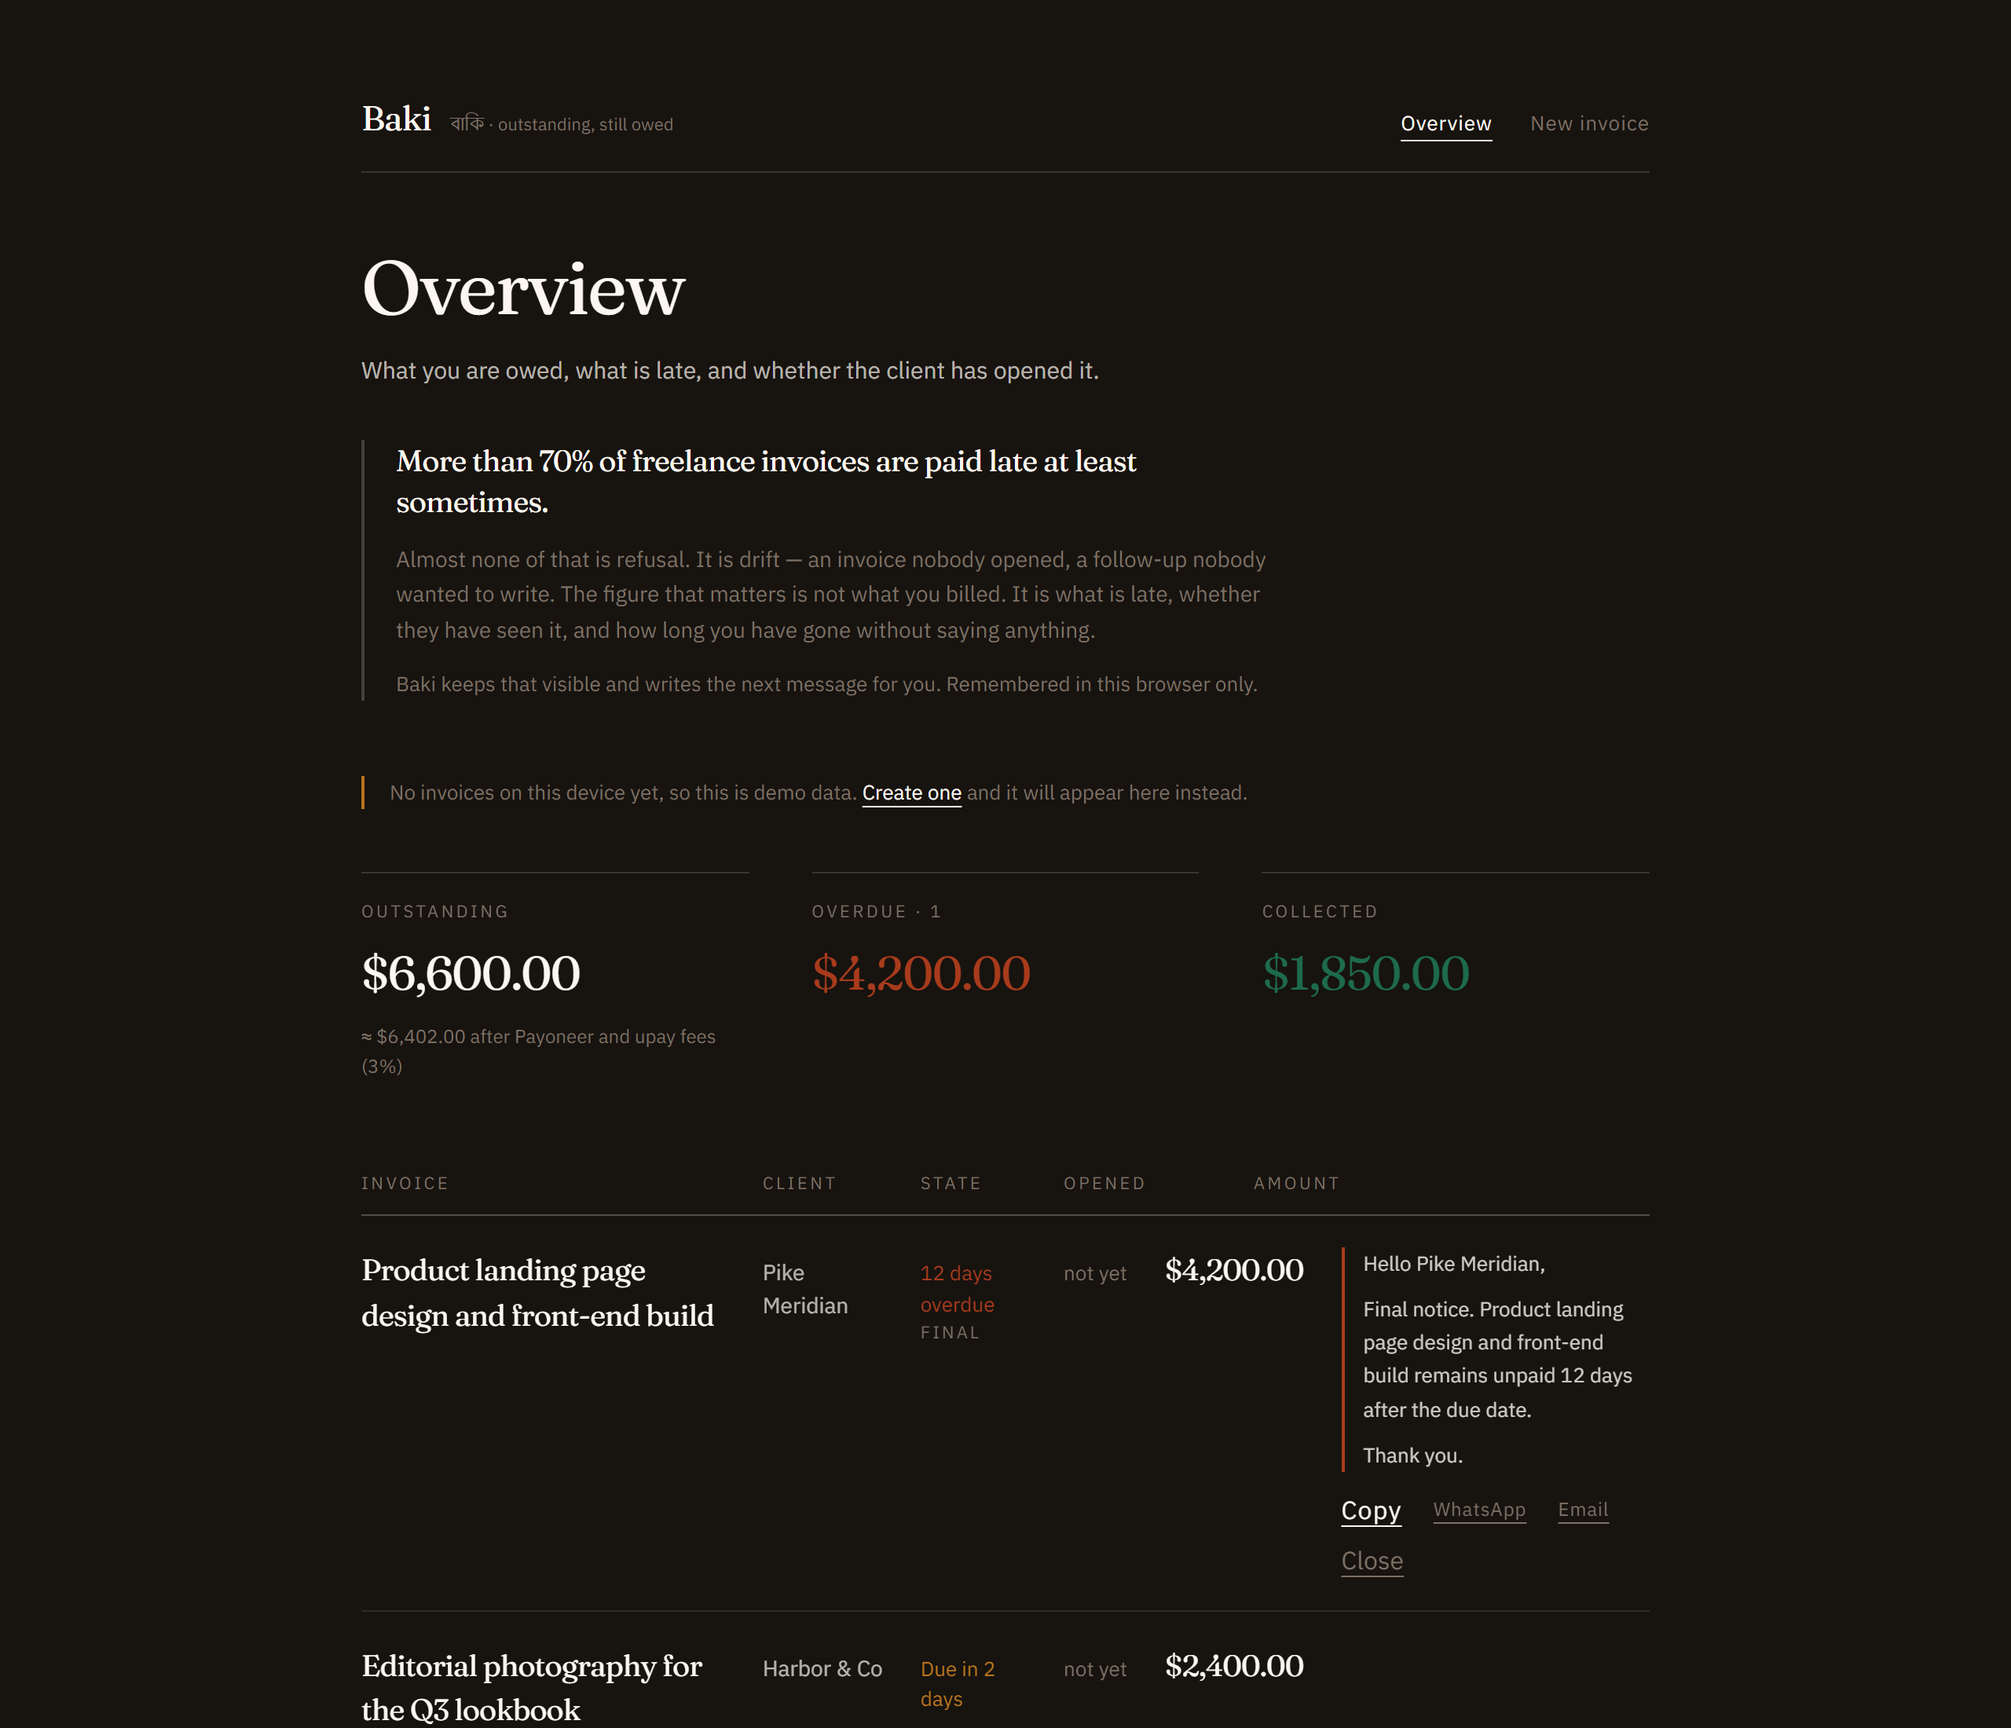
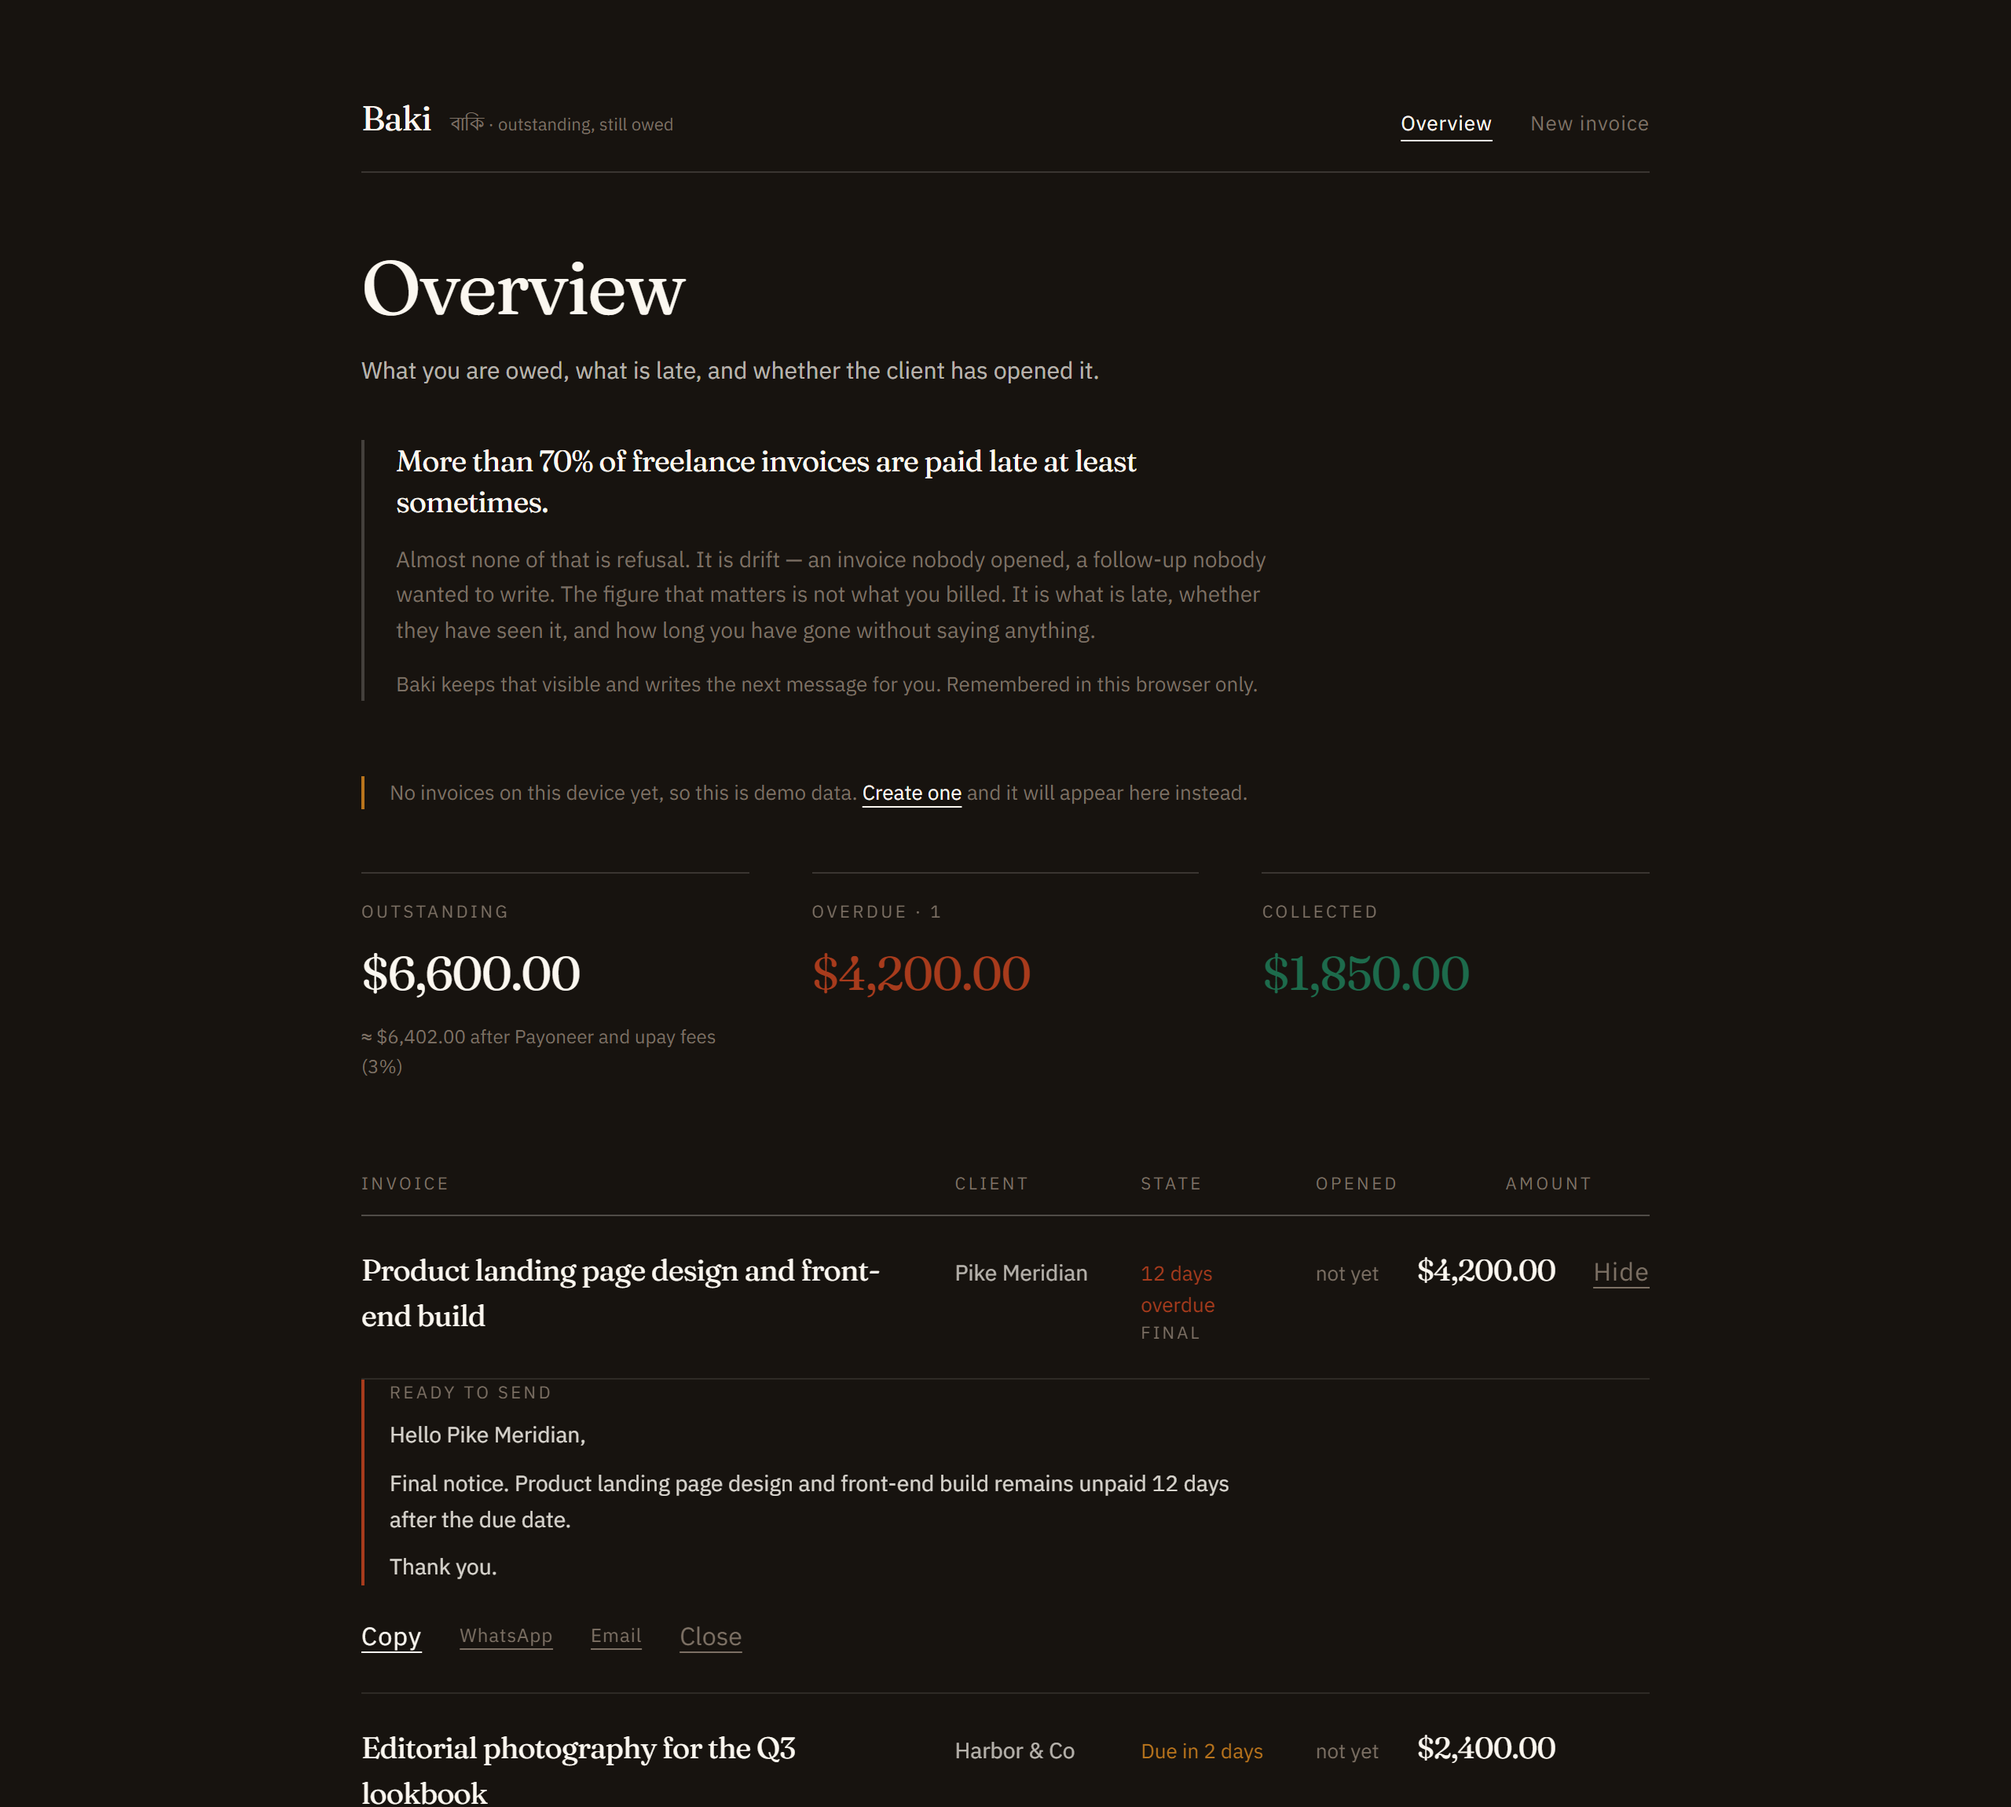
Client can commit to a payment date; ladder pauses, then resumes harder

diff --git a/components/PromiseDate.tsx b/components/PromiseDate.tsx
@@ -1,0 +1,60 @@
+"use client";
+
+import { useState } from "react";
+import { promiseDate } from "@/app/actions";
+import { toDateInput } from "@/lib/format";
+
+function defaultPromise(): string {
+  const d = new Date();
+  d.setUTCDate(d.getUTCDate() + 7);
+  return toDateInput(d);
+}
+
+/**
+ * The client's side of the negotiation. Committing to a date pauses the ladder
+ * until that date — which is worth more to them than ignoring it.
+ */
+export function PromiseDate({ id }: { id: string }) {
+  const [open, setOpen] = useState(false);
+
+  if (!open) {
+    return (
+      <button
+        type="button"
+        onClick={() => setOpen(true)}
+        className="text-[13px] text-muted underline underline-offset-4 hover:text-ink"
+      >
+        I will pay by a date
+      </button>
+    );
+  }
+
+  return (
+    <form action={promiseDate} className="enter">
+      <input type="hidden" name="id" value={id} />
+      <p className="text-[11px] tracking-[0.16em] text-muted uppercase">Commit to a date</p>
+      <p className="mt-2 max-w-sm text-[13px] leading-relaxed text-muted">
+        Reminders stop until then. If the date passes without payment, they resume more
+        firmly.
+      </p>
+      <div className="mt-3 flex flex-wrap items-center gap-3">
+        <input
+          type="date"
+          name="promised_at"
+          defaultValue={defaultPromise()}
+          className="border border-rule px-3 py-2 text-[14px] text-ink"
+        />
+        <button type="submit" className="bg-ink px-5 py-2 text-[12px] tracking-[0.1em] text-surface uppercase">
+          Confirm
+        </button>
+        <button
+          type="button"
+          onClick={() => setOpen(false)}
+          className="text-[12px] text-muted underline underline-offset-4"
+        >
+          Cancel
+        </button>
+      </div>
+    </form>
+  );
+}

diff --git a/lib/escalation.ts b/lib/escalation.ts
@@ -84,3 +84,44 @@ export function getEscalation(tone: Tone, dueAt: Date, now = new Date()): Escala
     stages: buildStages(tone, dueAt),
   };
 }
+
+export type PromiseState =
+  | { kind: "none" }
+  | { kind: "promised"; at: Date; daysAway: number }
+  | { kind: "broken"; at: Date; daysLate: number };
+
+/**
+ * A client who commits to a date buys silence until that date. Miss it and the
+ * ladder does not resume where it paused — it resumes one register colder,
+ * because a broken promise is worse than an unanswered invoice.
+ */
+export function promiseState(promisedAt: Date | null | undefined, now = new Date()): PromiseState {
+  if (!promisedAt) return { kind: "none" };
+  const days = calendarDaysPastDue(promisedAt, now);
+  if (days <= 0) return { kind: "promised", at: promisedAt, daysAway: Math.abs(days) };
+  return { kind: "broken", at: promisedAt, daysLate: days };
+}
+
+/** Escalation adjusted for a promise: paused while it holds, harsher once broken. */
+export function getEscalationWithPromise(
+  tone: Tone,
+  dueAt: Date,
+  promisedAt: Date | null | undefined,
+  now = new Date(),
+): { escalation: Escalation; promise: PromiseState; paused: boolean } {
+  const promise = promiseState(promisedAt, now);
+  const escalation = getEscalation(tone, dueAt, now);
+
+  if (promise.kind === "promised") {
+    return { escalation: { ...escalation, register: null, stageIndex: null }, promise, paused: true };
+  }
+
+  if (promise.kind === "broken") {
+    const order: Register[] = ["cordial", "firm", "cold", "final"];
+    const at = escalation.register ? order.indexOf(escalation.register) : 1;
+    const harder = order[Math.min(order.length - 1, Math.max(at + 1, 2))];
+    return { escalation: { ...escalation, register: harder }, promise, paused: false };
+  }
+
+  return { escalation, promise, paused: false };
+}

diff --git a/app/api/status/route.ts b/app/api/status/route.ts
@@ -1,6 +1,6 @@
 import { NextResponse } from "next/server";
 import { getInvoiceSummaries } from "@/lib/invoices";
-import { calendarDaysPastDue, getEscalation } from "@/lib/escalation";
+import { calendarDaysPastDue, getEscalationWithPromise } from "@/lib/escalation";
 import { isTone } from "@/lib/types";
 import { templateCopy } from "@/lib/copy";
 
@@ -23,7 +23,9 @@ export async function POST(request: Request) {
       const dueAt = new Date(row.due_at as string);
       const paid = row.status === "paid";
       const daysPastDue = paid ? 0 : calendarDaysPastDue(dueAt, now);
-      const escalation = paid ? null : getEscalation(tone, dueAt, now);
+      const promisedAt = row.promised_at ? new Date(row.promised_at as string) : null;
+      const resolved = paid ? null : getEscalationWithPromise(tone, dueAt, promisedAt, now);
+      const escalation = resolved?.escalation ?? null;
       return {
         id: row.id,
         client_name: row.client_name,
@@ -38,6 +40,9 @@ export async function POST(request: Request) {
           : null,
         days_past_due: daysPastDue,
         register: escalation?.register ?? null,
+        promised_at: promisedAt ? promisedAt.toISOString() : null,
+        promise_state: resolved?.promise.kind ?? "none",
+        paused: resolved?.paused ?? false,
         // The exact wording for the stage this invoice has reached, so the
         // freelancer can send it from wherever they already talk to the client.
         message:

diff --git a/components/InvoiceDocument.tsx b/components/InvoiceDocument.tsx
@@ -1,6 +1,7 @@
 import Link from "next/link";
 import { CopyLink } from "@/components/CopyLink";
 import { LadderPreview } from "@/components/LadderPreview";
+import { PromiseDate } from "@/components/PromiseDate";
 import { OverdueClock } from "@/components/OverdueClock";
 import { reminderCopy } from "@/lib/copy";
 import { getEscalation, REGISTER_LABELS } from "@/lib/escalation";
@@ -134,6 +135,20 @@ export async function InvoiceDocument({ invoice, shareUrl }: Props) {
           </a>
         )}
       </div>
+
+      {!paid ? (
+        <div className="mt-6 border-t border-rule pt-6">
+          {invoice.promised_at ? (
+            <p className="text-[13px] leading-relaxed text-muted">
+              Payment promised for{" "}
+              <span className="text-ink">{formatDate(new Date(invoice.promised_at))}</span>.
+              Reminders are paused until then.
+            </p>
+          ) : (
+            <PromiseDate id={invoice.id} />
+          )}
+        </div>
+      ) : null}
 
       <div className="mt-12">
         <LadderPreview

diff --git a/app/actions.ts b/app/actions.ts
@@ -3,7 +3,7 @@
 import { redirect } from "next/navigation";
 import { dollarsToCents, parseDateInput } from "@/lib/format";
 import { makeInvoiceId } from "@/lib/ids";
-import { createInvoiceRecord, markInvoicePaid } from "@/lib/invoices";
+import { createInvoiceRecord, markInvoicePaid, promisePayment } from "@/lib/invoices";
 import { isTone } from "@/lib/types";
 
 function asString(value: FormDataEntryValue | null): string {
@@ -52,5 +52,13 @@ export async function confirmPayment(formData: FormData) {
   const id = asString(formData.get("id"));
   if (!id) redirect("/");
   await markInvoicePaid(id);
+  redirect(`/invoice/${id}`);
+}
+
+export async function promiseDate(formData: FormData) {
+  const id = asString(formData.get("id"));
+  const when = parseDateInput(asString(formData.get("promised_at")));
+  if (!id || !when) redirect(id ? `/invoice/${id}` : "/");
+  await promisePayment(id, when);
   redirect(`/invoice/${id}`);
 }

diff --git a/components/Dashboard.tsx b/components/Dashboard.tsx
@@ -22,10 +22,22 @@ type Row = {
   register: string | null;
   due_at: string;
   message: string | null;
+  promise_state?: "none" | "promised" | "broken";
+  promised_at?: string | null;
 };
 
 function state(row: Row): { text: string; tone: string } {
   if (row.status === "paid") return { text: "Paid", tone: "text-paid" };
+  if (row.promise_state === "promised" && row.promised_at) {
+    const when = new Date(row.promised_at).toLocaleDateString("en-GB", {
+      day: "numeric",
+      month: "short",
+    });
+    return { text: `Promised ${when}`, tone: "text-due" };
+  }
+  if (row.promise_state === "broken") {
+    return { text: "Promise broken", tone: "text-overdue" };
+  }
   if (row.days_past_due > 0) {
     return {
       text: `${row.days_past_due} day${row.days_past_due === 1 ? "" : "s"} overdue`,

diff --git a/lib/invoices.ts b/lib/invoices.ts
@@ -248,10 +248,17 @@ export async function getInvoiceSummaries(ids: string[]) {
   const sql = await ensureDb();
   const rows = await sql`
     SELECT id, client_name, description, amount_cents, currency,
-           due_at, tone, status, paid_at, COALESCE(views, 0) AS views, last_viewed_at
+           due_at, tone, status, paid_at, COALESCE(views, 0) AS views, last_viewed_at,
+           promised_at
     FROM invoices
     WHERE id = ANY(${ids})
     ORDER BY issued_at DESC
   `;
   return rows;
+}
+
+/** The client commits to a date. Escalation pauses until it passes. */
+export async function promisePayment(id: string, at: Date): Promise<void> {
+  const sql = await ensureDb();
+  await sql`UPDATE invoices SET promised_at = ${at.toISOString()} WHERE id = ${id} AND status <> 'paid'`;
 }

diff --git a/lib/db.ts b/lib/db.ts
@@ -39,6 +39,8 @@ export async function ensureDb(): Promise<Sql> {
 
   await sql`ALTER TABLE invoices ADD COLUMN IF NOT EXISTS views integer NOT NULL DEFAULT 0`;
   await sql`ALTER TABLE invoices ADD COLUMN IF NOT EXISTS last_viewed_at timestamptz`;
+  await sql`ALTER TABLE invoices ADD COLUMN IF NOT EXISTS promised_at timestamptz`;
+  await sql`ALTER TABLE invoices ADD COLUMN IF NOT EXISTS promise_broken boolean NOT NULL DEFAULT false`;
 
   prepared = true;
   return sql;

diff --git a/lib/types.ts b/lib/types.ts
@@ -15,6 +15,8 @@ export type Invoice = {
   tone: Tone;
   status: Status;
   paid_at: Date | null;
+  promised_at?: Date | null;
+  promise_broken?: boolean;
   views?: number;
   last_viewed_at?: Date | null;
 };
